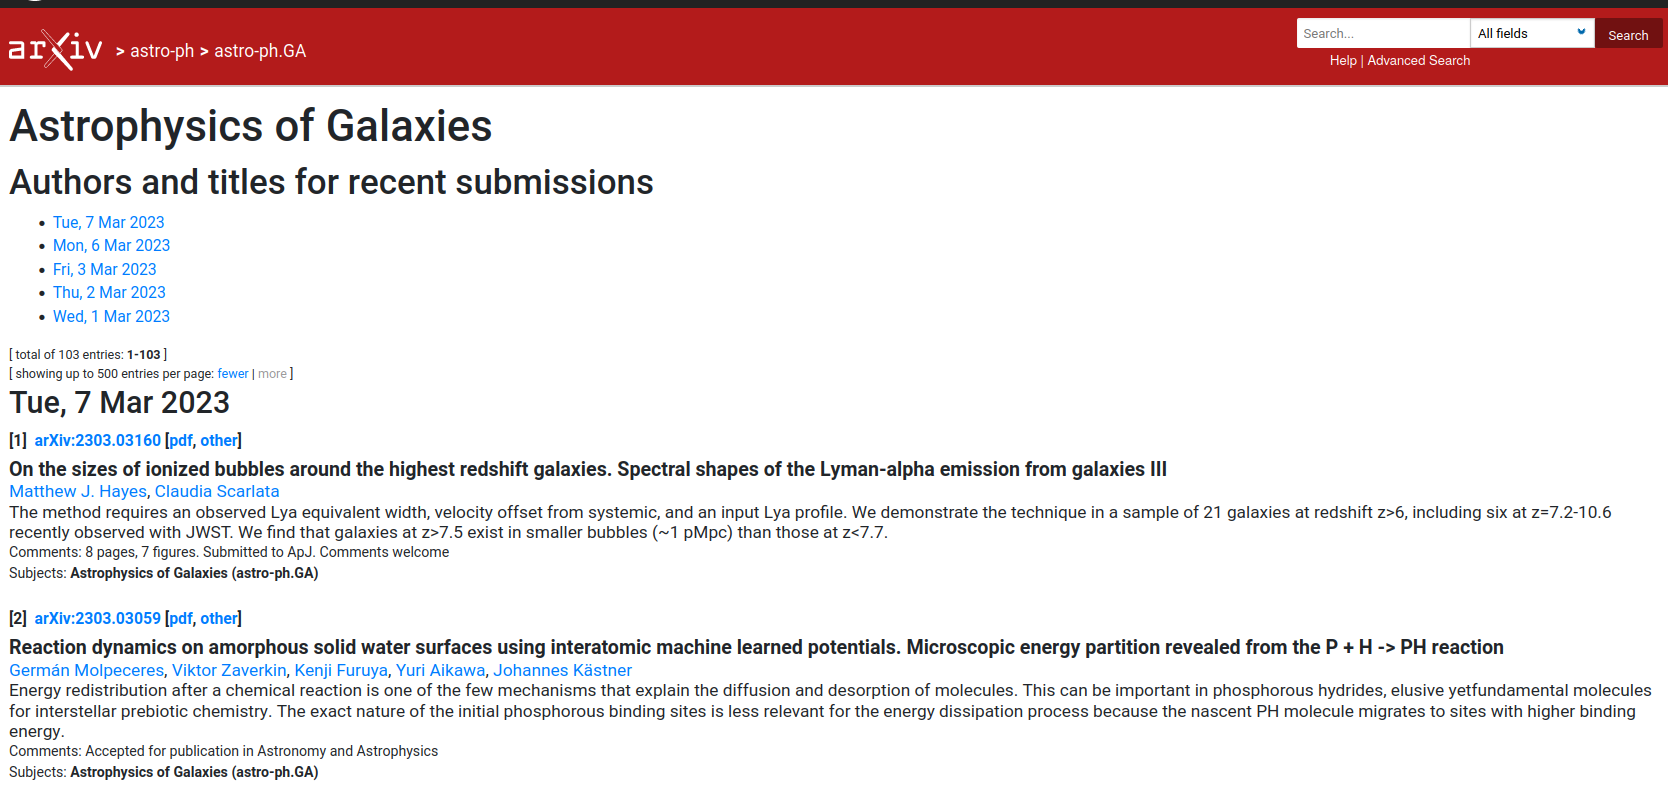
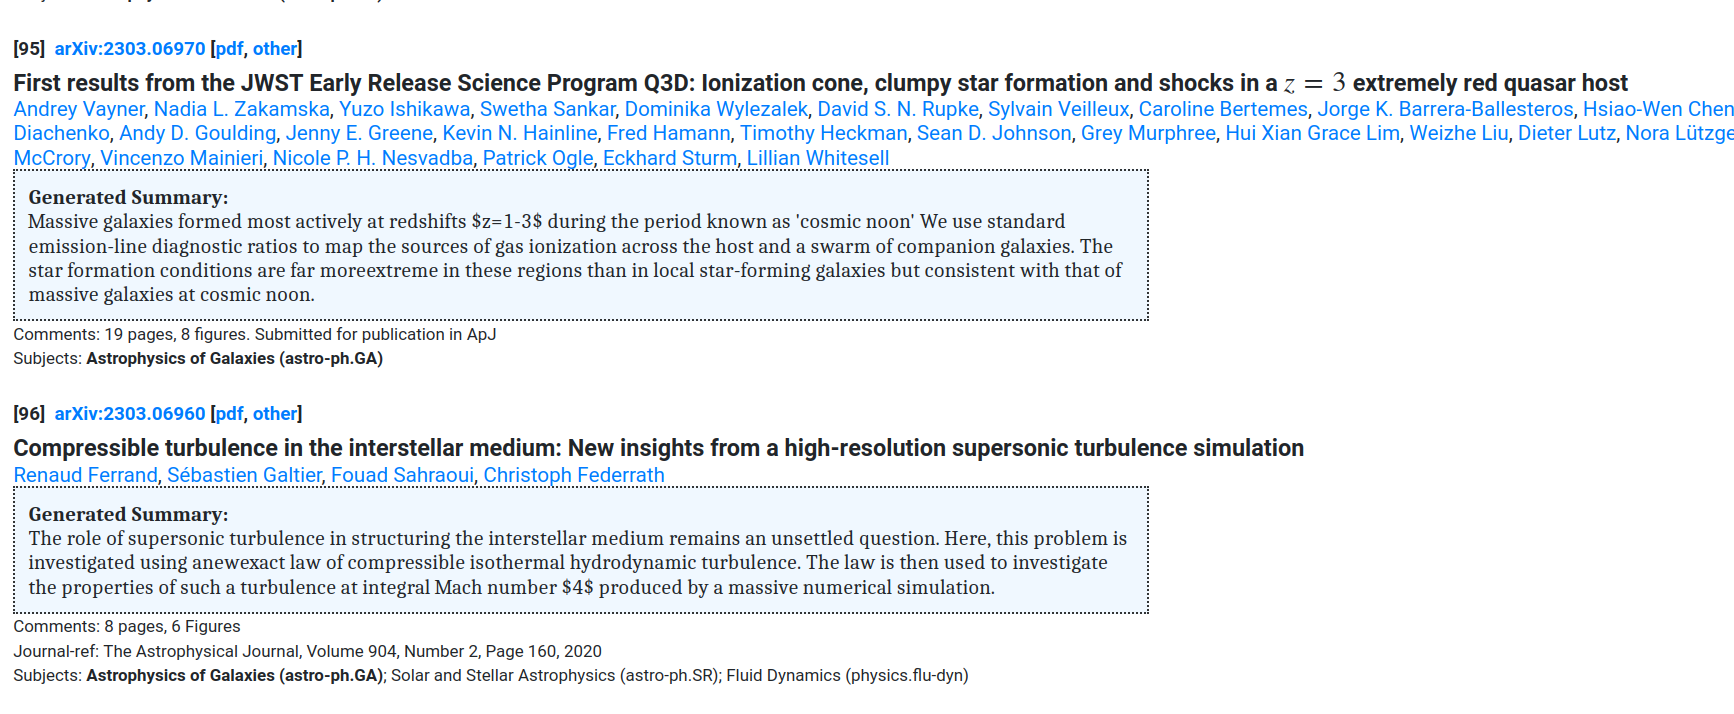
v0.1.3 release
- resolves #2
- minor css tweaks

Changed region(s): [[0.0, 0.0, 1.0, 0.986]]

diff --git a/extension/src/background.js b/extension/src/background.js
@@ -46,8 +46,11 @@ $.getJSON(summaryJSONurl, function(data) {
   ///////////////////////////////////////////////
   ///// Run when user visits past week page ///// 
   ///////////////////////////////////////////////
-
-  if(window.location.href.indexOf("https://arxiv.org/list/astro-ph.GA/pastweek?") > -1){
+  function checkURL(url){
+    // returns boolean
+    return(window.location.href.indexOf(url) > -1)
+  }
+  if(checkURL("https://arxiv.org/list/astro-ph.GA/pastweek?")| checkURL("https://arxiv.org/list/astro-ph.GA/recent") | checkURL("https://arxiv.org/list/astro-ph.GA/new")) {
     
     var papers = document.getElementsByClassName("list-identifier");
     var papersMeta = document.getElementsByClassName("meta"); 
@@ -61,7 +64,12 @@ $.getJSON(summaryJSONurl, function(data) {
           var AISummary = summaryJSON[currentPageUrl+versions[j]]['summary'];
 
           var newNode = document.createElement("div");
-          newNode.innerHTML = AISummary;
+          newNode.innerHTML               = "<b> Generated Summary: </b><br>" + AISummary + "<br>";
+          newNode.style.border            = "2px dotted black";
+          newNode.style.padding           = "10px";
+          newNode.style.backgroundColor   = "#F0F8FF";
+          newNode.style.width             = "40%";
+          newNode.style.fontFamily        = "Cambria";
           papersMeta[i].childNodes[3].appendChild(newNode);
           // papers1[0].childNodes[3]
 

diff --git a/README.md b/README.md
@@ -10,5 +10,7 @@ Download the firefox extension .xpi from [here](extension/arxiv-shorts-v012.xpi)
 - Read AI summaries by visiting any arxiv:astro-ph:GA article.
 ![](arxiv-shorts-demo1.png)
 
-- Want to read AI summaries generated for the entire week? Visit the arxiv [past week page](https://arxiv.org/list/astro-ph.GA/pastweek?skip=0&show=500). The title of each paper along with the AI generated summary will be displayed for all the papers posted. Cheers!
+- Want to read AI summaries generated for the entire week? Visit the arxiv [past week](https://arxiv.org/list/astro-ph.GA/pastweek?skip=0&show=500) or [recent page](https://arxiv.org/list/astro-ph.GA/recent). The title of each paper along with the AI generated summary will be displayed for all the papers posted.
 ![](arxiv-shorts-demo2.png)
+
+
